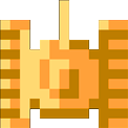
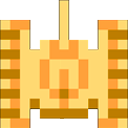
class Player, class Bullet + shooting

Changed region(s): [[0.5312, 0.0, 0.875, 1.0], [0.9062, 0.1562, 1.0, 1.0], [0.4688, 0.9062, 0.5, 0.9375]]

diff --git a/libjdx/core/src/com/mygdx/game/MyGdxGame.java b/libjdx/core/src/com/mygdx/game/MyGdxGame.java
@@ -1,50 +1,78 @@
 package com.mygdx.game;
 
+import java.util.ArrayList;
+
 import com.badlogic.gdx.ApplicationAdapter;
 import com.badlogic.gdx.Gdx;
 import com.badlogic.gdx.Input;
+import com.badlogic.gdx.graphics.Color;
 import com.badlogic.gdx.graphics.GL20;
+import com.badlogic.gdx.graphics.Pixmap;
 import com.badlogic.gdx.graphics.Texture;
+import com.badlogic.gdx.graphics.Texture.TextureWrap;
 import com.badlogic.gdx.graphics.g2d.Sprite;
 import com.badlogic.gdx.graphics.g2d.SpriteBatch;
 
 public class MyGdxGame extends ApplicationAdapter {
 	SpriteBatch batch;
-	Sprite player;
-	
+	Player player;
+
 	@Override
-	public void create () {
+	public void create() {
 		batch = new SpriteBatch();
-		Texture img = new Texture("tank.png");
-		player = new Sprite(img);
-		player.setScale(50f / player.getWidth());
-        player.setPosition(Gdx.graphics.getWidth()/2 -player.getWidth()/2, Gdx.graphics.getHeight()/2 - player.getHeight()/2);
+		player = new Player();
 	}
 
 	@Override
-	public void render () {
-		Gdx.gl.glClearColor(0,0,0,0);
+	public void render() {
+		Gdx.gl.glClearColor(0, 0, 0, 0);
 		Gdx.gl.glClear(GL20.GL_COLOR_BUFFER_BIT);
-        
-        if(Gdx.input.isKeyPressed(Input.Keys.LEFT)){
-        	if (player.getBoundingRectangle().x >= 0)
-                player.translateX(-5.0f);
-                player.setRotation(90);
-        } else if(Gdx.input.isKeyPressed(Input.Keys.RIGHT)){
-        	if (player.getBoundingRectangle().x <= Gdx.graphics.getWidth()-50)
-                player.translateX(5.0f);
-                player.setRotation(-90);  
-        } else if(Gdx.input.isKeyPressed(Input.Keys.UP)){
-        	if (player.getBoundingRectangle().y <= Gdx.graphics.getHeight()-50)
-                player.translateY(5.0f);
-                player.setRotation(0);
-        } else if(Gdx.input.isKeyPressed(Input.Keys.DOWN)){
-        	if (player.getBoundingRectangle().y >= 0 )
-                player.translateY(-5.0f);
-                player.setRotation(180);
-        }
-        batch.begin();
-        player.draw(batch);
-        batch.end();
+		
+		if (Gdx.input.isKeyPressed(Input.Keys.LEFT)) {
+			if (player.getBoundingRectangle().x >= 0)
+				player.translateX(-5.0f);
+			player.setRotation(90);
+		} else if (Gdx.input.isKeyPressed(Input.Keys.RIGHT)) {
+			if (player.getBoundingRectangle().x <= Gdx.graphics.getWidth() - 50)
+				player.translateX(5.0f);
+			player.setRotation(-90);
+		} else if (Gdx.input.isKeyPressed(Input.Keys.UP)) {
+			if (player.getBoundingRectangle().y <= Gdx.graphics.getHeight() - 50)
+				player.translateY(5.0f);
+			player.setRotation(0);
+		} else if (Gdx.input.isKeyPressed(Input.Keys.DOWN)) {
+			if (player.getBoundingRectangle().y >= 0)
+				player.translateY(-5.0f);
+			player.setRotation(180);
+		}
+		if (Gdx.input.isKeyJustPressed(Input.Keys.SPACE)) {
+			int speedX = 0;
+			int speedY = 0;
+			switch ((int)player.getRotation()) {
+			case 0:
+				speedY = 10;
+				break;
+			case -90:
+				speedX = 10;
+				break;
+			case 180:
+				speedY = -10;
+				break;
+			case 90:
+				speedX = -10;
+				break;
+			}
+			Bullet b = new Bullet(player.getBoundingRectangle().x+23, player.getBoundingRectangle().y+23, speedX, speedY);
+			player.addBullet(b);
+		}
+		
+		//Texture texture = new Texture ("ground.png");
+		//texture.setWrap(TextureWrap.Repeat, TextureWrap.Repeat);
+		
+		batch.begin();
+		//batch.draw (texture, 0, 0, 0, 0, 800, 600);
+		//batch.draw (texture, 0, 0, 800, 600, 4, 4, 32, 32);
+		player.draw(batch);
+		batch.end();
 	}
 }

diff --git a/libjdx/core/src/com/mygdx/game/Bullet.java b/libjdx/core/src/com/mygdx/game/Bullet.java
@@ -1,0 +1,52 @@
+package com.mygdx.game;
+
+import com.badlogic.gdx.Gdx;
+import com.badlogic.gdx.graphics.Color;
+import com.badlogic.gdx.graphics.Pixmap;
+import com.badlogic.gdx.graphics.Texture;
+import com.badlogic.gdx.graphics.g2d.Sprite;
+import com.badlogic.gdx.graphics.g2d.TextureRegion;
+
+public class Bullet extends Sprite {
+
+	private int speedX;
+	private int speedY;
+	private static Texture texture;
+	
+	public Bullet(float x, float y, int speedX, int speedY) {
+		super (doTexture());
+		this.speedX = speedX;
+		this.speedY = speedY;
+		this.setPosition(x, y);
+	}
+	
+	private static Texture doTexture() {
+		if (texture==null) {
+			Pixmap pixmap = new Pixmap(4,4,Pixmap.Format.RGBA8888);
+			pixmap.setColor(Color.WHITE);
+			pixmap.fill();
+			texture = new Texture (pixmap);
+			pixmap.dispose();
+		}
+		return texture;
+	}
+	
+	public int getSpeedX() {
+		return speedX;
+	}
+
+	public int getSpeedY() {
+		return speedY;
+	}
+	
+	public void move() {
+		this.translate(speedX, speedY);
+	}
+	
+	public Boolean worldCollide() {
+		if(this.getX() < 0 || this.getX() > Gdx.graphics.getWidth() ||
+				this.getY() < 0 || this.getY() > Gdx.graphics.getHeight())
+			return true;
+		return false;
+	}
+}

diff --git a/libjdx/core/src/com/mygdx/game/Player.java b/libjdx/core/src/com/mygdx/game/Player.java
@@ -1,0 +1,47 @@
+package com.mygdx.game;
+
+import java.util.ArrayList;
+
+import com.badlogic.gdx.Gdx;
+import com.badlogic.gdx.graphics.Texture;
+import com.badlogic.gdx.graphics.g2d.Batch;
+import com.badlogic.gdx.graphics.g2d.Sprite;
+
+public class Player extends Sprite{
+
+	private ArrayList<Bullet> bullets;
+	
+	public Player(int type) {
+		super(doTexture(type));
+		this.setScale(50f / this.getWidth());
+		this.setPosition(Gdx.graphics.getWidth() / 2 - this.getWidth() / 2,
+				Gdx.graphics.getHeight() / 2 - this.getHeight() / 2);
+		bullets = new ArrayList<Bullet>();
+	}
+	
+	public Player () {
+		this (0);
+	}
+
+	public void addBullet (Bullet b) {
+		bullets.add(b);
+	}
+	
+	private static Texture doTexture (int type) {
+		if (type == 0) new Texture("tank.png");
+		return new Texture("tank2.png");
+	}
+	
+	@Override
+	public void draw (Batch batch) {
+		for (int i = 0; i < bullets.size(); i++) {
+			bullets.get(i).draw(batch);
+			bullets.get(i).move();
+			if (bullets.get(i).worldCollide())
+				bullets.remove(i);
+		}
+		
+		super.draw(batch);
+	}
+	
+}
